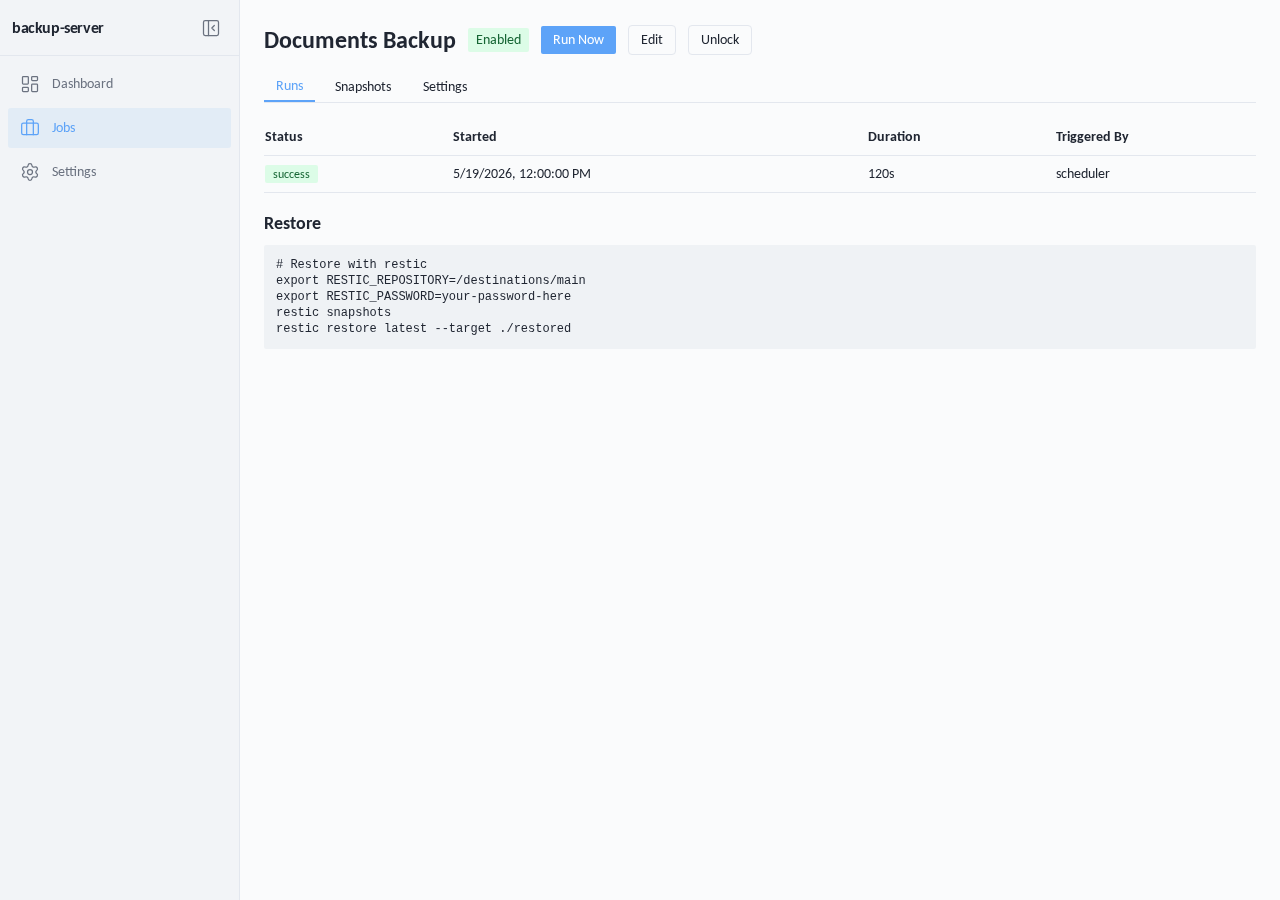
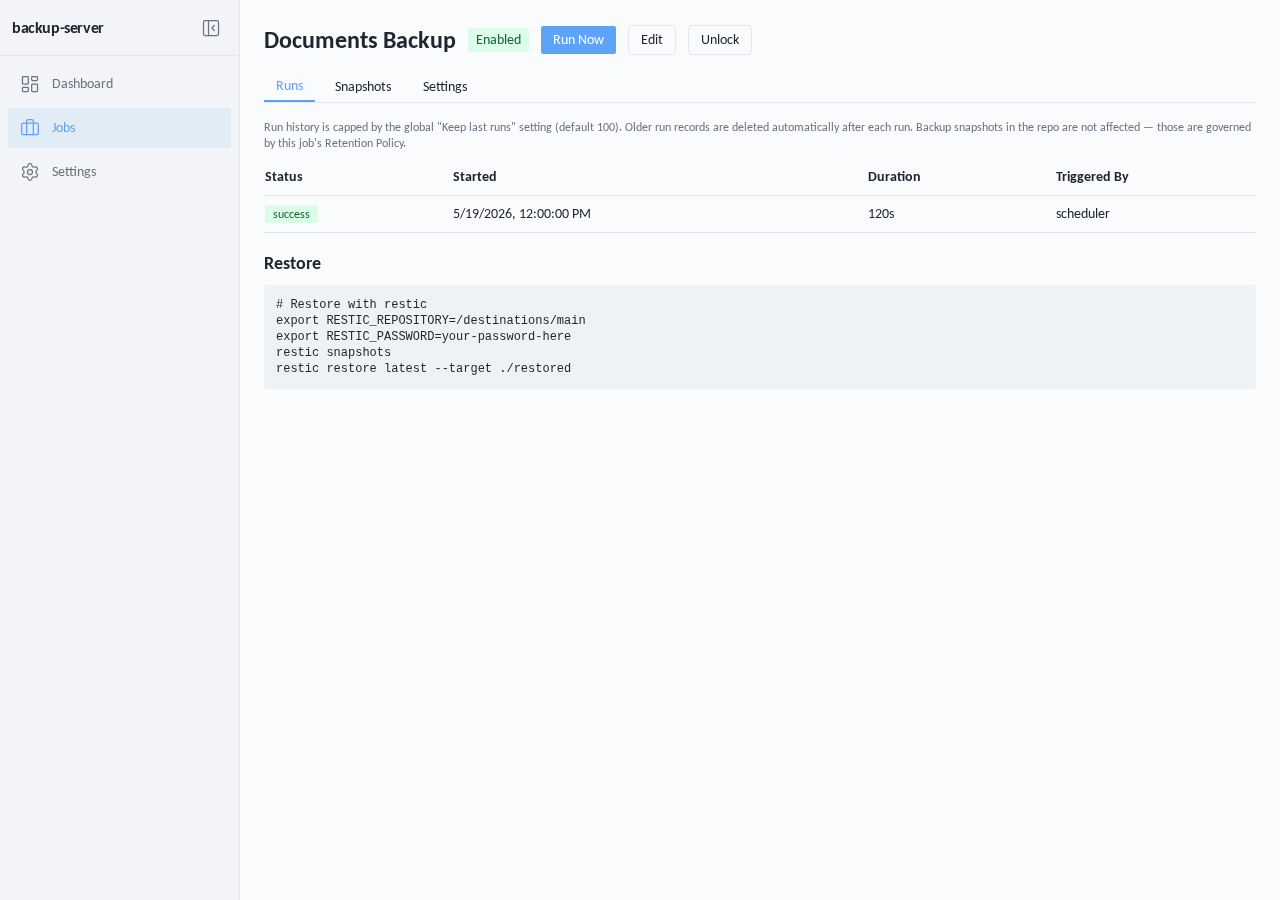
add documentation in FE for the 100 limit on last snapshot

diff --git a/frontend/src/pages/JobDetail.test.tsx b/frontend/src/pages/JobDetail.test.tsx
@@ -169,6 +169,17 @@ describe('JobDetail', () => {
       renderWithProviders(<JobDetail />, { route: '/jobs/job-1' })
       await waitFor(() => expect(screen.getByText('success')).toBeInTheDocument())
     })
+
+    it('explains the run-history cap and clarifies snapshots are separate', async () => {
+      vi.mocked(api.getJobRuns).mockResolvedValue([makeRun({ id: 'run-1' })])
+      renderWithProviders(<JobDetail />, { route: '/jobs/job-1' })
+      // The Runs-tab note must reference the global cap setting and call out
+      // that the per-job Retention Policy controls snapshot retention.
+      await waitFor(() =>
+        expect(screen.getByText(/run history is capped.*keep last runs/i)).toBeInTheDocument()
+      )
+      expect(screen.getByText(/retention policy/i)).toBeInTheDocument()
+    })
   })
 
   describe('Unlock button', () => {

diff --git a/frontend/src/components/JobForm.test.tsx b/frontend/src/components/JobForm.test.tsx
@@ -428,6 +428,15 @@ describe('JobForm', () => {
       expect(screen.getByLabelText(/keep last/i)).toBeVisible()
     })
 
+    it('explains that retention controls restic snapshots, not run history', async () => {
+      const user = userEvent.setup()
+      render(<JobForm onSubmit={vi.fn()} />)
+      await user.click(screen.getByText(/retention policy/i))
+      // The note must reference run history + the global "Keep last runs"
+      // setting so the user knows where the other knob lives.
+      expect(screen.getByText(/run history.*keep last runs/i)).toBeInTheDocument()
+    })
+
     it('shows Backup Options section', () => {
       render(<JobForm onSubmit={vi.fn()} />)
       expect(screen.getByText(/backup options/i)).toBeInTheDocument()

diff --git a/frontend/src/components/JobForm.tsx b/frontend/src/components/JobForm.tsx
@@ -554,6 +554,11 @@ export default function JobForm({
           </button>
           {retentionExpanded && (
             <div className="space-y-3 mt-3">
+              <p className="text-xs text-muted-foreground">
+                Controls how many backup snapshots this job keeps in the repository (via{' '}
+                <code>restic forget</code>). This is separate from run history, which is capped
+                globally on the Settings page under "Keep last runs".
+              </p>
               {(
                 [
                   ['retain-keep-last', keepLast, setKeepLast, HELP.keepLast],

diff --git a/frontend/src/pages/JobDetail.tsx b/frontend/src/pages/JobDetail.tsx
@@ -201,6 +201,11 @@ export default function JobDetail() {
 
       {tab === 'runs' && (
         <div>
+          <p className="text-xs text-muted-foreground mb-2">
+            Run history is capped by the global "Keep last runs" setting (default 100). Older run
+            records are deleted automatically after each run. Backup snapshots in the repo are not
+            affected — those are governed by this job's Retention Policy.
+          </p>
           {(runs ?? []).length === 0 ? (
             <p className="text-muted-foreground text-sm">No runs yet.</p>
           ) : (
